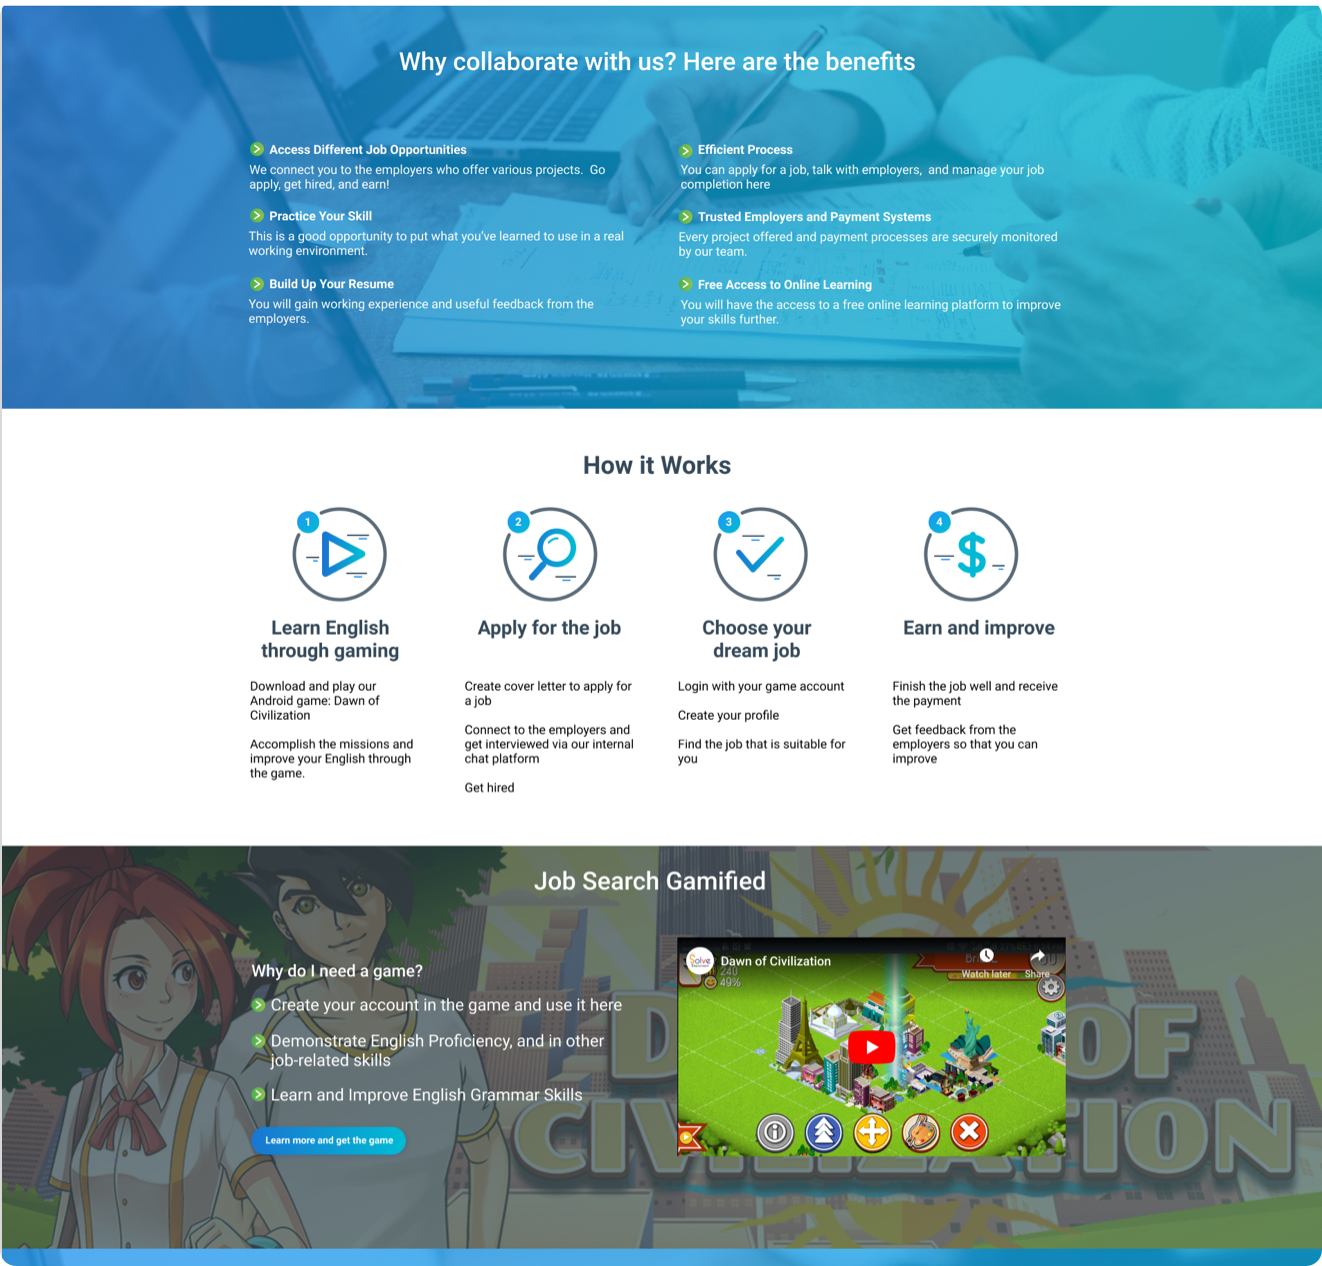
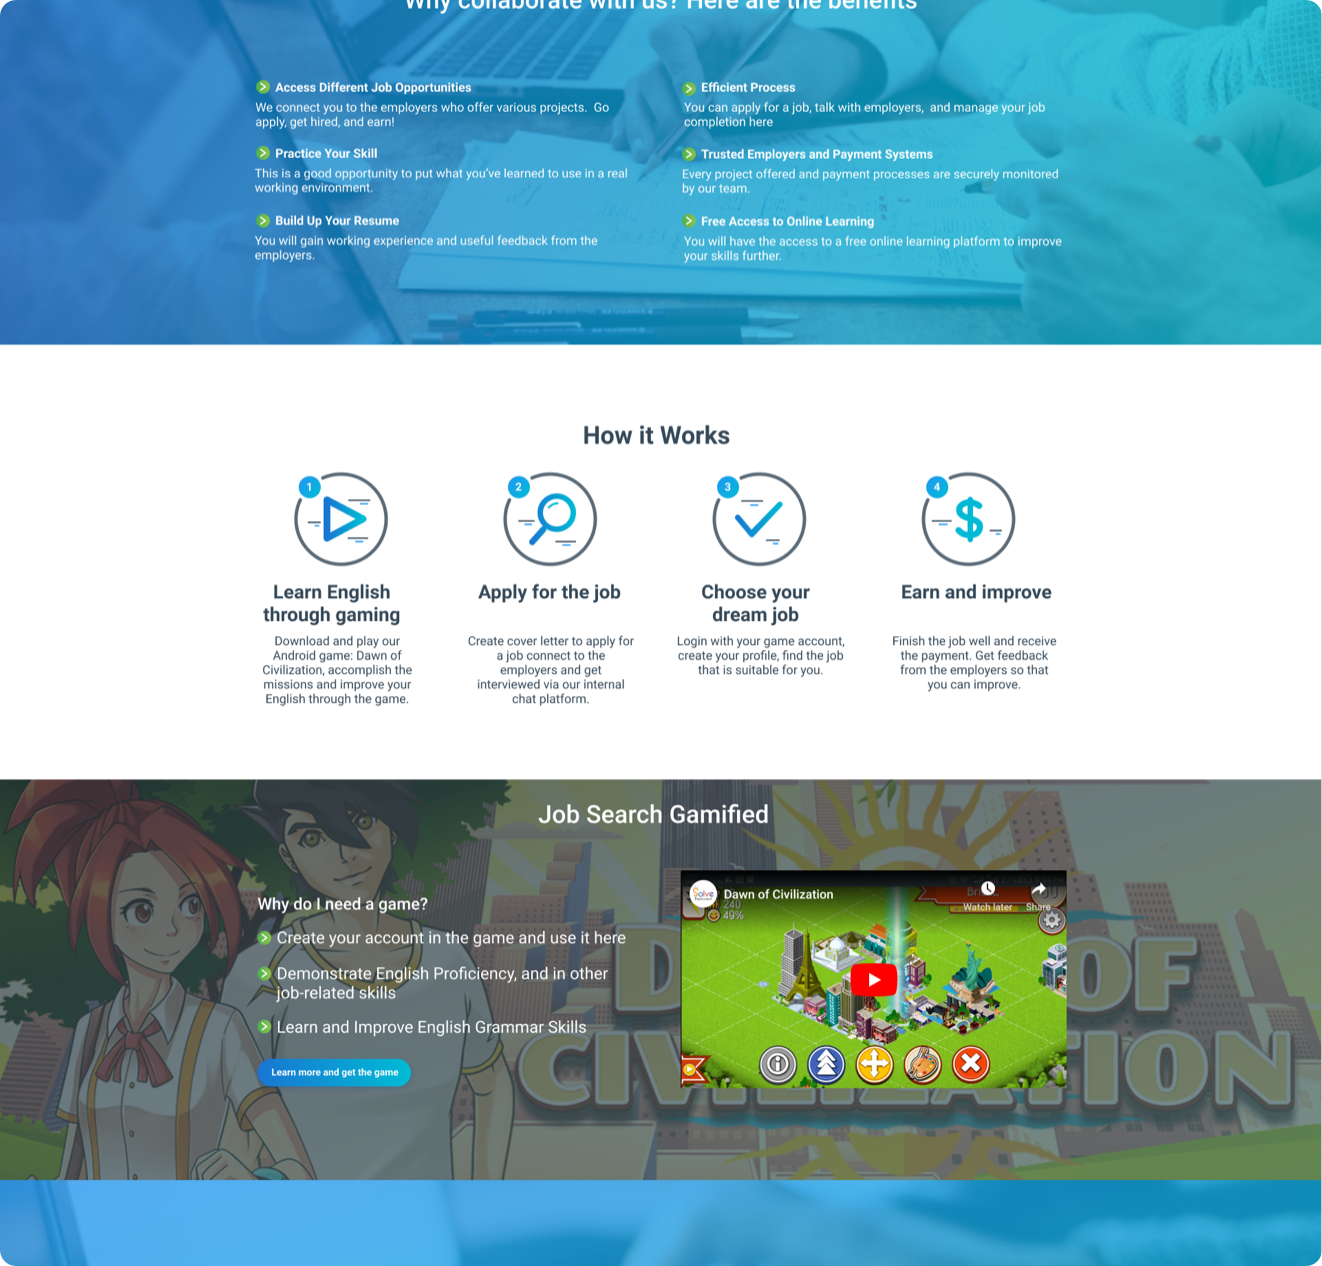
changes on type

diff --git a/src/components/caseStudies/SolveEmploymentStudy.js b/src/components/caseStudies/SolveEmploymentStudy.js
@@ -169,7 +169,7 @@ const SolveEmploymentStudy = () => {
           <div className='col'>
             <h2>Talent</h2>
             <div style={{ marginBottom: '10px' }}></div>
-            <h3>Where can you signup and apply for a job?</h3>
+            <h3>Where can you sign up and apply for a job?</h3>
             <p>
               "I tried to sign up but it took me to a spam page to download a
               game"
@@ -185,15 +185,13 @@ const SolveEmploymentStudy = () => {
       <Section sectionColor='#fff' wrapperColor='#fff'>
         <div className='section-spacer' />
         <div className='left width-1 sx-margin'>
-          <h2>Hands-on the sketches</h2>
-          <h3>Main problems discovered, how are we going to approach it?</h3>
+          <h2>Hands-on sketches</h2>
+          <h3>with the main problems discovered, how are we going to approach them?</h3>
           <p>
-            With the results of the interviews on our hands, we started to work
-            on a user journey map, did a competitive analysis of the business
-            shown below and the low fidelity designs with possible solutions for
-            the users based on the user interviews and key founds on the
-            competitive analysis. We created a couple of iterations on the main
-            ones and prepare for testing again.
+          With the results of the interviews in our hands, we started to work on a user journey map. 
+          We completed a competitive analysis of the business shown below and low fidelity designs 
+          with possible solutions for the users based on the user interviews.  
+          We created a couple of iterations of the main problems and prepared for testing again.
           </p>
         </div>
         <div className='section-spacer' />
@@ -210,7 +208,7 @@ const SolveEmploymentStudy = () => {
           <img
             src={OldLanding}
             alt='New screen mockup'
-            style={{ width: '100%', height: '100%', marginTop: '-3px' }}
+            style={{ width: '100%', height: '100%', marginTop: '0px' }}
           />
           <figcaption style={{ marginTop: '0px' }}>
             Landing page before redesign
@@ -218,16 +216,15 @@ const SolveEmploymentStudy = () => {
         </div>
         <div className='section-spacer flex' />
         <div className='width-1 left sx-margin'>
-          <h2>Key founds</h2>
+          <h2>Key findings</h2>
           <h3>Problems in the flow</h3>
           <p>
-            There was a serious problem with the way they explained how to log
-            in as a talent, stakeholders explained to us that’s how students
-            could verify they knew English. Once they got to a certain level in
-            the game, that meant they could communicate in English and find a
-            matching job, our challenge change to finding a way to explain
-            better the connection with the game and that the verification
-            through it.
+          There was a serious problem with the way they explained how to log in as a talent. 
+          Stakeholders explained to us that’s how students could verify that they knew English. 
+          Once the talent got to a certain level in the game, that meant they could communicate 
+          in English and then find a matching job. Our challenge changed to finding a way to better 
+          explain the connection with the game and the verification that came through it.
+
           </p>
         </div>
         <div className='section-spacer' />
@@ -265,16 +262,16 @@ const SolveEmploymentStudy = () => {
         <div className='section-spacer' />
         <div className='width-1 left sx-margin'>
           <h2>User interviews don’t lie </h2>
-          <h3>Test, Iterate and deliver</h3>
+          <h3>Test, Iterate and Deliver</h3>
           <p>
             Once we had a working prototype we started with user interviews, we
             received feedback on the sidebar, modified and tested it again until
             the interviewers weren’t confused with the flow and the screens
             showed.
             <br />
+            <br />
             <strong style={{ marginTop: '4px' }}>
-              Here are some highlighted teststestimonies from our users after
-              the redesing:
+            Here are some highlighted testimonies from our users after the redesign:
             </strong>
           </p>
         </div>
@@ -288,9 +285,9 @@ const SolveEmploymentStudy = () => {
             <h2>Business owner</h2>
             <div style={{ marginBottom: '10px' }}></div>
             <h3>
-              “It’s more clear now that I can see, my active jobs and I can open
-              it and see where the project is, when was updated and what is left
-              to do on it”
+            “It’s more clear now that I can see my active jobs. I can open it and see where the project is, 
+            when it was updated, and what is left to do on it.”
+
             </h3>
           </div>
         </div>
@@ -325,9 +322,9 @@ const SolveEmploymentStudy = () => {
             <h2>Talent</h2>
             <div style={{ marginBottom: '10px' }}></div>
             <h3>
-              “I love the new payments look! I can see my balance, the total
-              gains and also my payment history, I could also see it on the
-              other design but this way is more clearer”
+            “I love the new payments look! I can see my balance, the total gains, and also my payment history. 
+            I could see it on the other design, but this way is more clear.”
+
             </h3>
           </div>
         </div>
@@ -354,13 +351,11 @@ const SolveEmploymentStudy = () => {
         <div className='section-spacer' />
         <div className='width-1 left sx-margin'>
           <h2>Conclusion</h2>
-          <h3>Stakeholder has the data</h3>
+          <h3>Stakeholders have the data</h3>
           <p>
-            We presented our discoveries and our proposal on how to solve the
-            problems we encounter in our user research in time, the stakeholder
-            liked our idea and found insightful the data we shared. They
-            approved the design and told us they were going to move forward with
-            our design and start developing it.
+          We presented our discoveries and our proposal on how to solve the problems we encountered in our user 
+          research within the two-week timeframe. The stakeholders liked our idea and found our data to be insightful. 
+          They approved the design and told us they were going to move forward with our design and start developing it.
           </p>
         </div>
         <div className='section-spacer' />

diff --git a/src/components/caseStudies/FitnessStudy.js b/src/components/caseStudies/FitnessStudy.js
@@ -132,26 +132,27 @@ export default class FitnessStudy extends Component {
           }
           oText={
             <>
-              Fitness instructors have a lot to work on, not just classes but,
-              working with people, with their goals, not only changing their
-              body but their minds.
+              Fitness instructors have a lot to work on. Not just leading classes but working with 
+              people and their personalized goals. Fitness instructors don’t just change their 
+              clients’ bodies, they change their minds. 
+
               <br />
               <br />
-              This is hard to do when you have to write everything on paper or
-              don’t have enough time to work with them personally, or remind
-              them all about their classes or their goals.
+              Helping clients reach their goals is hard for instructors to do 
+              when they have to write everything on paper, don’t have enough time 
+              to work with them personally, or don’t have enough time to remind them about their classes or goals.
               <br />
               <br />
-              Trainers are looking for something that can be with them all the
-              time, always up to date with what’s going on with their clients,
-              and removing that layer of awkwardness to go and ask for the
-              payments.
+              Trainers are looking for something that can be with them all the time, something that is 
+              always up to date with what’s going on with their clients, and something that removes that 
+              layer of awkwardness when asking for the payments.
+
             </>
           }
           oChallenge={
             <>
-              How can we build an engaging solution to let trainers and trainees
-              manage their workouts and payments.
+              How may we build an engaging solution to let trainers and trainees
+              manage their workouts and payments?
             </>
           }
           oSolution={
@@ -173,17 +174,16 @@ export default class FitnessStudy extends Component {
             <div style={{ display: 'block', margin: '5px 0' }} />
             <div className='data-section-paragraph'>
               <p>
-                When I accepted this project <b>I thought I knew</b> what the
-                application would look like at the end, or what the product was
-                and its needs because I’m a fitness instructor,{' '}
+                When I accepted this project <b>I thought I knew</b> what the application would look like in the end. 
+                Because I myself am a fitness instructor, I thought I knew what the product was and what it needed.{' '}
                 <b>I was wrong.</b>
               </p>
             </div>
             <div style={{ display: 'block', margin: '8px 0' }} />
             <div className='data-section-paragraph'>
               <p>
-                How did I gather information? Great question! I did the
-                following
+              How did I gather information? Great question! 
+              I did the following:
               </p>
             </div>
             {/* <div style={{ display: 'block', margin: '2px 0' }} /> */}
@@ -191,18 +191,18 @@ export default class FitnessStudy extends Component {
               <ul>
                 <li>
                   <p>
-                    I analyze what types of question and what audience I’ll be
-                    interviewing.
+                  “It’s hard to keep up with the progress of all of my trainees.”
+
                   </p>
                 </li>
                 <li>
                   <p>
-                    Interview with coaches, fitness instructor and people who
-                    exercise regularly and not regularly.
+                  “If someone hasn’t paid I don’t like to remind them in person.”
+
                   </p>
                 </li>
                 <p>
-                  <li>Shadow a couple of colleagues</li>
+                  <li>“People don’t know that I have more than one certification.”</li>
                 </p>
               </ul>
             </div>
@@ -217,11 +217,11 @@ export default class FitnessStudy extends Component {
               <h2> Trainers </h2>
               <h3> </h3>
               <p>
-                “It’s hard to keep up with all the trainees progress.”
+              “The apps that they have used are not engaging.”
                 <br />
-                “If someone hasn’t pay I don’t like to remind them personally.”
+                “It’s hard for me to finish the programs I start.”
                 <br />
-                “I have more than one certification and people don’t know them.”
+                “I don’t want to pay for something if it’s going to work.”
                 <br />
               </p>
             </div>
